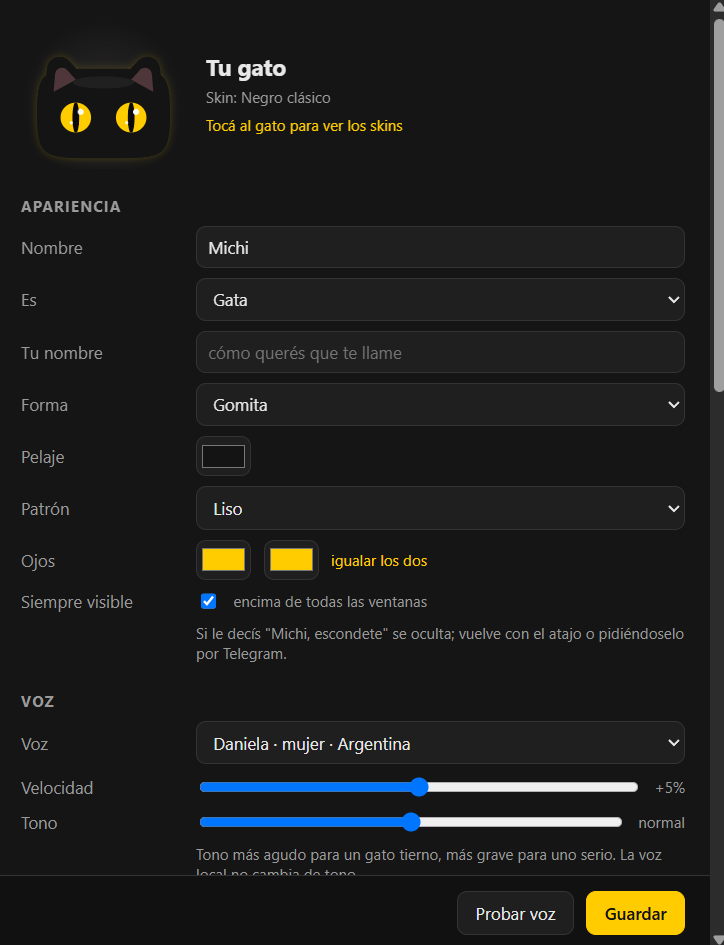
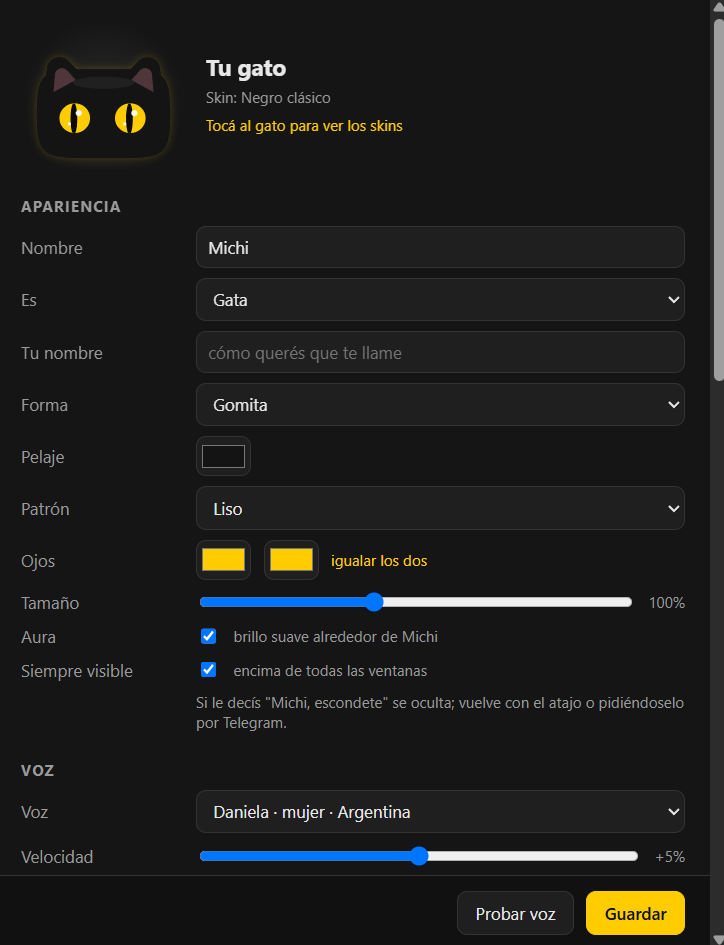
Tamaño ajustable y aura activable
Configurar suma un control de tamaño (60 % a 160 %) y la opción de
activar o desactivar el aura, con vista previa en vivo sobre Michi. La
ventana ya alcanza para el tamaño máximo y la región de Windows recorta
lo que sobra, así que no hace falta redimensionarla.

diff --git a/gato/ui/settings.html b/gato/ui/settings.html
@@ -68,6 +68,8 @@
     <span id="wrap_patron2" style="display:flex;gap:10px;align-items:center"><span class="no">segundo color</span><input type="color" id="sk_color_patron2"></span></div>
   <div class="row"><label>Ojos</label><input type="color" id="sk_ojo_izq"><input type="color" id="sk_ojo_der">
     <button class="mini" id="igualar">igualar los dos</button></div>
+  <div class="row"><label>Tamaño</label><input type="range" id="tamano" min="60" max="160" step="10"><span id="tamanov" class="no"></span></div>
+  <div class="row"><label>Aura</label><input type="checkbox" id="aura"><span class="no">brillo suave alrededor de Michi</span></div>
   <div class="row"><label>Siempre visible</label><input type="checkbox" id="siempre_visible"><span class="no">encima de todas las ventanas</span></div>
   <div class="hint" style="margin-top:0">Si le decís "Michi, escondete" se oculta; vuelve con el atajo o pidiéndoselo por Telegram.</div>
 
@@ -139,6 +141,15 @@
   }
   $('igualar').onclick = () => { skin = { ...skin, ojo_der: skin.ojo_izq, editado: true }; showSkin(); };
 
+  // Aura y tamaño se ven en vivo en Michi; si se cierra sin guardar, vuelve a como estaba
+  function previewLook() {
+    $('tamanov').textContent = $('tamano').value + '%';
+    cat.setAura($('aura').checked);
+    pywebview.api.preview_look($('aura').checked, $('tamano').value / 100);
+  }
+  $('tamano').oninput = previewLook;
+  $('aura').onchange = previewLook;
+
   // Galería: se arma recién la primera vez que se abre
   let galleryBuilt = false;
   $('preview').onclick = () => {
@@ -171,7 +182,8 @@
   $('preview').onmouseleave = () => cat.setState('idle');
 
   function collect() {
-    const d = { skin, siempre_visible: $('siempre_visible').checked, memoria: $('memoria').value.split('\n') };
+    const d = { skin, siempre_visible: $('siempre_visible').checked, memoria: $('memoria').value.split('\n'),
+                aura: $('aura').checked, tamano: $('tamano').value / 100 };
     for (const f of FIELDS) d[f] = $(f).value.trim();
     d.velocidad_voz = signed(+$('vel').value, '%');
     d.tono_voz = signed(+$('tono').value, 'Hz');
@@ -205,6 +217,10 @@
     $('cerebros').value = c.cerebros.join(',');
     $('inicio_windows').checked = c.inicio_windows;
     $('siempre_visible').checked = c.siempre_visible;
+    $('aura').checked = c.aura;
+    cat.setAura(c.aura);
+    $('tamano').value = Math.round(c.tamano * 100);
+    $('tamanov').textContent = $('tamano').value + '%';
     $('memoria').value = c.memoria.join('\n');
     // Un skin guardado puede venir incompleto (configuraciones viejas): se completa con el negro clásico
     skin = { ...SKINS[0], ...(c.skin || {}) };

diff --git a/gato/ui/cat.js b/gato/ui/cat.js
@@ -59,6 +59,7 @@
       this.c = canvas;
       this.ctx = canvas.getContext('2d');
       this.setSkin(opts.skin);
+      this.aura = opts.aura !== false;
       this.state = 'idle';
       this.v = { ...STATES.idle, lookX: 0, lookY: 0, twL: 0, twR: 0 };
       this.amp = 0;
@@ -87,6 +88,7 @@
       this.skin = { ...DEFAULT_SKIN, ...(skin || {}) };
       this.g = SHAPES[this.skin.forma] || SHAPES.gomita;
     }
+    setAura(on) { this.aura = !!on; }
     setState(s) {
       if (!STATES[s]) return;
       if (s === 'happy' && this.state !== 'happy') this.hopAt = performance.now();
@@ -343,12 +345,16 @@
         ctx.beginPath(); this.squircle(b.x0 - g, b.y0 - g, b.x1 + g, b.y1 + g, b.r + g); ctx.stroke();
       }
 
-      // Silueta plana; un halo apenas visible del color de los ojos la despega del fondo
+      // Silueta plana. Con aura, un halo del color de los ojos la despega del fondo:
+      // primera pasada con sombra, segunda sin ella para tapar la parte interna
       ctx.fillStyle = s.pelaje;
-      ctx.shadowColor = rgba(s.ojo_izq, 0.22);
-      ctx.shadowBlur = 8;
-      this.silhouettePath(); ctx.fill();
-      ctx.shadowBlur = 0;
+      this.silhouettePath();
+      if (this.aura) {
+        ctx.shadowColor = rgba(s.ojo_izq, 0.22);
+        ctx.shadowBlur = 8;
+        ctx.fill();
+        ctx.shadowBlur = 0;
+      }
       ctx.fill();
 
       this.drawPattern();

diff --git a/gato/ui/cat.html b/gato/ui/cat.html
@@ -7,7 +7,7 @@
   html, body { margin: 0; background: transparent; overflow: hidden; user-select: none;
     font-family: "Segoe UI", system-ui, sans-serif; }
   #cat { width: 120px; height: 110px; display: block; margin: 4px auto 0; cursor: pointer; touch-action: none; }
-  #bubble { margin: 2px 6px 0; padding: 7px 10px; border-radius: 12px;
+  #bubble { box-sizing: border-box; width: 228px; margin: 2px auto 0; padding: 7px 10px; border-radius: 12px;
     background: rgba(18, 18, 18, 0.92); color: #eee; font-size: 12.5px; line-height: 1.35;
     border: 1px solid var(--eye-soft, rgba(255, 204, 0, 0.4)); opacity: 0; transform: translateY(-4px);
     transition: opacity .2s, transform .2s; pointer-events: none;
@@ -63,7 +63,14 @@
   };
   cat.applyConfig = (c) => {
     cat.setSkin(c.skin);
+    cat.setAura(c.aura);
+    // El tamaño escala el lienzo; la ventana ya alcanza para el máximo y la región recorta lo que sobra
+    const scale = c.tamano || 1;
+    canvas.style.width = 120 * scale + 'px';
+    canvas.style.height = 110 * scale + 'px';
+    cat.resize();
     document.documentElement.style.setProperty('--eye-soft', cat.skin.ojo_izq + '66');
+    updateRegion();
   };
   window.cat = cat;
 

diff --git a/gato/__main__.py b/gato/__main__.py
@@ -26,7 +26,8 @@ log = logging.getLogger("gato")
 
 UI = Path(__file__).resolve().parent / "ui"
 # Tamaño lógico fijo (cambiarlo rompe la transparencia de WebView2). Lo visible se recorta con una región de Windows.
-WIN_SIZE = (240, 236)
+WIN_SIZE = (300, 300)  # alcanza para el tamaño máximo (160 %) más el globo de texto
+TAMANO_MIN, TAMANO_MAX = 0.6, 1.6
 user32 = ctypes.windll.user32
 gdi32 = ctypes.windll.gdi32
 gdi32.CreateRoundRectRgn.restype = ctypes.c_void_p
@@ -60,6 +61,13 @@ def make_glass(window, hwnd):
     for attr in (38, 2):  # DWMWA_SYSTEMBACKDROP_TYPE = NONE, DWMWA_NCRENDERING_POLICY = DISABLED
         value = ctypes.c_int(1)
         ctypes.windll.dwmapi.DwmSetWindowAttribute(hwnd, attr, ctypes.byref(value), 4)
+
+
+def clamp_size(value) -> float:
+    try:
+        return round(min(TAMANO_MAX, max(TAMANO_MIN, float(value))), 2)
+    except (TypeError, ValueError):
+        return 1.0
 
 
 def key_to_vk(name: str) -> int | None:
@@ -98,7 +106,13 @@ class Api:
         if dpr:
             self._app._scale = float(dpr)
             threading.Thread(target=self._app.on_page_ready, daemon=True).start()
-        return {k: self._app.cfg[k] for k in ("nombre", "skin")}
+        return {k: self._app.cfg[k] for k in ("nombre", "skin", "aura", "tamano")}
+
+    def preview_look(self, aura, tamano):
+        """Muestra en Michi el aura y el tamaño mientras se mueven los controles, sin guardar todavía."""
+        look = {**self.ready(), "aura": bool(aura), "tamano": clamp_size(tamano)}
+        self._app.preview_size = look["tamano"]
+        self._app.js(f"cat.applyConfig({json.dumps(look)})")
 
     def drag_start(self):
         self._app.drag_start()
@@ -153,6 +167,7 @@ class Assistant:
         self._drag = None
         self._hotkey = None
         self._scale = 1.0
+        self.preview_size = None  # tamaño de prueba mientras se mueve el control en Configurar
         self.hidden = False
         self.hide_after_reply = False
         self._dict_hook = None
@@ -256,7 +271,9 @@ class Assistant:
                 self.apply_on_top()
             cx, cy = cursor_pos()
             left, top, right, bottom = window_rect(self.hwnd)
-            hx, hy = (left + right) / 2, top + 72 * self._scale
+            # Centro de los ojos: 4 px de margen + 72 de los 110 px del dibujo, escalado por el tamaño
+            size = self.preview_size or self.cfg["tamano"]
+            hx, hy = (left + right) / 2, top + (4 + 72 * size) * self._scale
             dx, dy = cx - hx, cy - hy
             look = (round(dx / (abs(dx) + 250) * 1.6, 2), round(dy / (abs(dy) + 250) * 1.6, 2))
             if look != last:
@@ -410,7 +427,13 @@ class Assistant:
         self.settings_window = webview.create_window(
             f"Configurar a {self.cfg['nombre']}", url=(UI / "settings.html").as_uri(), js_api=self.api,
             width=600, height=760, min_size=(480, 500), background_color="#151515")
-        self.settings_window.events.closed += lambda: setattr(self, "settings_window", None)
+        self.settings_window.events.closed += self._settings_closed
+
+    def _settings_closed(self):
+        # Si se cerró sin guardar, Michi vuelve al aura y tamaño guardados
+        self.settings_window = None
+        self.preview_size = None
+        self.js(f"cat.applyConfig({json.dumps(self.api.ready())})")
 
     def save_settings(self, data):
         old_token = config.get_secret("TELEGRAM_BOT_TOKEN")
@@ -419,10 +442,12 @@ class Assistant:
         if "memoria" in data:
             self.brain.memory.set_facts(data.pop("memoria"))
         for k in ("nombre", "nombre_dueno", "genero", "skin", "siempre_visible", "voz", "velocidad_voz", "tono_voz", "atajo",
-                  "tecla_dictado", "cerebros",
+                  "tecla_dictado", "cerebros", "aura", "tamano",
                   "modelo_gemini", "modelo_groq", "gmail_usuario", "telegram_chat_id"):
             if k in data:
                 self.cfg[k] = data[k]
+        self.cfg["tamano"] = clamp_size(self.cfg["tamano"])
+        self.preview_size = None
         config.save(self.cfg)
         if "inicio_windows" in data:
             autostart.set_enabled(bool(data["inicio_windows"]))

diff --git a/gato/config.py b/gato/config.py
@@ -68,6 +68,8 @@ DEFAULTS = {
     # Skin elegido y editado en la configuración (ver ui/skins.js); None = negro clásico
     "skin": None,
     "siempre_visible": True,
+    "aura": True,       # halo suave del color de los ojos alrededor de Michi
+    "tamano": 1.0,      # escala del dibujo, de 0.6 a 1.6
     "voz": "es-AR-ElenaNeural",
     "velocidad_voz": "+5%",
     "tono_voz": "+0Hz",

diff --git a/README.md b/README.md
@@ -55,6 +55,7 @@ Habla en **español rioplatense** (voseo y tono argentino), con una personalidad
 | Claude | Le deriva los pedidos complejos y te resume la respuesta en voz |
 | Celular por Telegram | Texto o audios desde Android o iPhone, con respuesta en nota de voz |
 | 11 skins editables | Forma, pelaje, patrón y color de cada ojo, con vista previa en vivo |
+| Tamaño y aura | Tamaño del 60 % al 160 % y aura (brillo alrededor) activable, con vista en vivo |
 | 26 voces | 4 rioplatenses (Argentina y Uruguay), una local instantánea y más acentos |
 | Siempre visible | Queda encima de las ventanas; "Michi, escondete" la oculta |
 | Arranque con Windows | Aparece sola al prender la PC (se puede desactivar) |
@@ -126,6 +127,7 @@ Para lo que pide más cabeza (redactar, planificar, explicar a fondo, código), 
 ## Personalización: skins y voces
 
 - **Skins:** en Configurar, tocá a Michi para ver la galería. Los 11 skins (negro clásico, naranja atigrado, siamés, persa, persa humo, azul ruso, calicó, esmoquin, blanco con ojos bicolor, atigrado gris y carey) se pueden modificar: forma (Gomita o Persa), pelaje, patrón y el color de **cada ojo** por separado.
+- **Tamaño y aura:** un control ajusta el tamaño de Michi del 60 % al 160 %, y el aura (el brillo suave del color de los ojos a su alrededor) se activa o desactiva. Los cambios se ven en vivo mientras los ajustás; si cerrás sin guardar, vuelve a como estaba.
 - **Voces:** **Daniela** (argentina, corre en tu PC, la más rápida y anda sin internet), **Elena y Tomás** (Argentina), **Valentina y Mateo** (Uruguay), más voces de Chile, México, Colombia, Perú, España y otras. Se ajustan la velocidad y el tono.
 - **Personalidad:** nombre, si es gata o gato y cómo te llama a vos.
 
